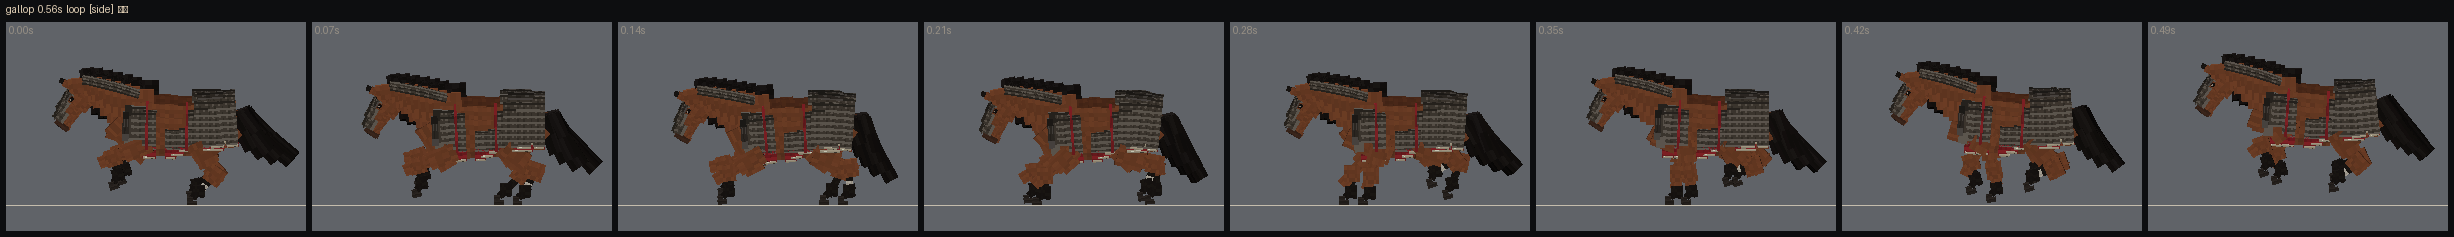
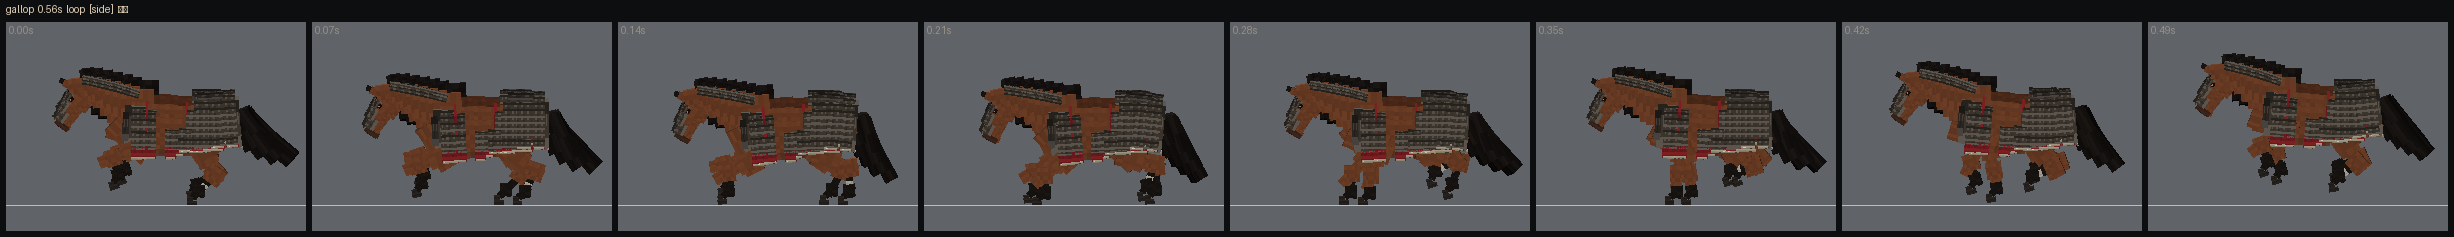
修甲的屁股：外侧面要罩得住大腿，搭后补上后襟
## 确实是穿模，而且五档三体型无一幸免

量出来的根子：**上肢比躯干还宽**。股（`thigh_*`）伸到 |x| 5.05、后腿上段
（`leg_upper_h_*`）到 5.29，而躯干最宽只有 4.51。甲的横向是照**躯干**量的
（`Torso.band`），外侧面给到 5.15 就没了——大腿直接从甲里长出来：

              粗布    锁子    轻铁    灵铁    重铁
    矮马      +0.30   +0.65   +0.58   +0.66   +1.67
    常马      +0.17   +0.64   +0.54   +0.62   +1.86
    挽马      +1.04   +1.46   +1.60   +1.52   +3.13   （单位 = 体素 = 6.25 cm）

**静止姿就穿模，而原有的判据一条都够不到它**：
  · `limb` 那档量的是"动起来比静止姿多陷多少"——静止姿本身有多糟它不问；
  · 贴合那条查的是甲有没有埋进**躯干**——大腿在不在甲外面它也不问。
两条各自都是对的，合起来正好把这个洞漏在中间。

修法与 `neck_outer_x` 是同一件事的两头：那条管**内侧面**（甲不许埋进颈，颈会动），
新的 `limb_outer_x` 管**外侧面**（甲要罩得住股）。甲鼓出去比切开好——真具装的侧片
本来就是罩在股外面垂下来的一大片。修完全部转负：甲比肢还往外 0.36-0.86 单位。

判据补上（`check_bard`）：上肢的任何一件都不许比甲更靠外。

## 顺带：那块光屁股

同一张图里更大的一片其实不是穿模，是**甲根本没做后襟**。侧片是贴在肋上的平板，
内侧面到 |x| 3.9 就没了；尻的后脸（`croup_cap`，半宽 4.4、高十个单位）整片没人管，
正后方看就是一大片光的。

补上：左右各一片兜下来、中间让给尾（尾根连尾毛在那一段伸到 |x| 3.2，中间那条本来
也被尾遮着），尾洞上沿再补一道。这件进 `BARD_KIT`，是顶档的第七件。

**覆盖率几乎没动（63.7% → 63.9%）——不是没多盖，是那条判据看不见它**：
`coverage` 只在每块皮的**左右两个侧面**取样，朝后的那一片它根本没在采。量程之外
的东西，判据说不上话；这一处只能靠图。

## 一个已知的不精确

甲鼓出去罩住股之后，"壳离皮多远"就不再只是 `gap + 板厚` 了。倒毙那条动画里蹭地
因此多了 0.4-0.6 单位（顶档 0.04 → 0.47 常马 / 0.62 矮马），仍在容许内（约用掉一半
预算），但那条容许的推导式（`extra.sink = 空隙 + 1.16 板厚`）已经不完全覆盖新的鼓出
量。**没有去松那个常数**——它现在过得去，松一个过得去的界比留着不精确更坏。

## 结果

- 42 份全绿（含动画期贴地 / 贴合 / 跨骨链）
- 12/12 条判据在被针对性破坏时撞红，基线零告警
- 蹄铁 / 鞍 / 缰 27 份几何仍逐字未变

Model: claude-opus-5[1m]

diff --git a/scripts/models/horse/gen_tack.py b/scripts/models/horse/gen_tack.py
@@ -1922,6 +1922,9 @@ class BardSpec:
     chamfron: str  # 面帘："" 无 / "half" 半面帘（护额与鼻梁，眼露在外）/ "full" 全罩留眼窗
     skirt: float  # 垂缘再往下加一截（× 躯干高）；0 = 无
     spine: bool  # 背脊梁
+    # 后襟：搭后往下兜住尻的**后面**（尾从中间穿出去）。侧片是贴在肋上的平板，只到
+    # |x| 3.9 就没了，尻的后脸整片露在外面——正后方看就是一大片光屁股。
+    rear: bool = False
     # 包边条的材质（"" = 不做）：沿甲的下摆走一道亮线。整板那一档原本每块板缘各一道
     # 棱，改回札甲之后不成立了——札片才两三个单位长，一片一道棱只剩一片杂色；**沿着
     # 整条边走一道**远处才连得成线。
@@ -1978,7 +1981,7 @@ BARDS: dict[str, BardSpec] = {
         mat="bard_lame", mat_dark="bard_lame_dark", mat_trim="bard_pad",
         edge="bard_rivet", pad="bard_pad", banded=False,
         th=0.024, hem=0.88, rows=8, cell=0.092, peytral=True, croup_plate=True,
-        crinet=True, chamfron="full", skirt=0.100, spine=True,
+        crinet=True, chamfron="full", skirt=0.100, spine=True, rear=True,
     ),
 }
 
@@ -1991,6 +1994,7 @@ BARD_KIT: tuple[tuple[str, object], ...] = (
     ("面帘", lambda s: bool(s.chamfron)),
     ("垂缘", lambda s: s.skirt > 0),
     ("脊梁", lambda s: s.spine),
+    ("后襟", lambda s: s.rear),
 )
 
 
@@ -2098,6 +2102,38 @@ def neck_outer_x(fit: Fit, za: float, zb: float, y0: float, y1: float) -> float:
     return best
 
 
+# 四肢**上段**：肩 / 上臂 / 股 / 后腿上段。往下（膝、管、系、蹄）不管——那儿早已在甲
+# 的下摆之外，真马铠也不护。
+LIMB_UPPER_RE = re.compile(r"thigh_[lr]|upper_arm_[lr]|leg_upper2?_[fh]_[lr]|leg_joint_[fh]_[lr]")
+
+
+def limb_outer_x(fit: Fit, za: float, zb: float, y0: float, y1: float) -> float:
+    """四肢上段在这一小块（z ∈ [za,zb]，y ∈ [y0,y1]）里横向伸到多远。
+    **甲片的外侧面不许比它更靠内。**
+
+    与 `neck_outer_x` 是同一件事的另一头：那条管内侧面（甲不许埋进颈），这条管外侧面。
+
+    甲的横向是照**躯干**量的（`Torso.band`），可上肢比躯干还宽——股伸到 |x| 5.05、
+    后腿上段 5.29，而躯干最宽只有 4.51。照躯干给外侧面，大腿就直接从甲里长出来：
+    挽马重铁甲实测露 3.13 单位，常马 1.86，五档三体型**无一幸免**（最小的粗布甲也露
+    0.17）。这不是动画里蹭一下，是**静止姿就穿模**，而原有的判据一条都够不到它——
+    `limb` 那档量的是"动起来比静止姿多陷多少"，静止姿本身有多糟它不问；贴合那条查的
+    是甲有没有埋进**躯干**，大腿在不在甲外面它也不问。
+
+    甲鼓出去比切开好：真具装的侧片本来就是**罩在**股外面垂下来的一大片。
+    """
+    best = 0.0
+    for e in fit.pelt_els:
+        if not LIMB_UPPER_RE.fullmatch(e["name"]):
+            continue
+        c = np.array(_corners(e), float)
+        if (c[:, 2].max() < min(za, zb) or c[:, 2].min() > max(za, zb)
+                or c[:, 1].max() < y0 or c[:, 1].min() > y1):
+            continue
+        best = max(best, float(np.abs(c[:, 0]).max()))
+    return best
+
+
 def _cells(fit: Fit, segs, lap: float, cell_len: float) -> list[tuple[str, float, float]]:
     """骨段 → 更细的格。同骨内切格是为了**跟着桶身前后收**：一整块平板从肩铺到腰，
     两头必然翘起来离开马体。同骨的格之间留一个板厚的搭叠（不是严格对接）——严格
@@ -2180,6 +2216,9 @@ def _lame_row(t: Tack, fit: Fit, spec: BardSpec, *, tag: str, row: str, za: floa
         # 相同），相切时交体积恰好是 0，"甲贴在马身上"那条判据分不出相切与飘着。
         lo, hi = shell(a0, a1)
         lo = max(lo, neck_outer_x(fit, c0, c1, a0, a1) + gap)
+        # 外侧面要罩得住上肢：股与后腿上段比躯干还宽，照躯干给这一片就成了"大腿从甲里
+        # 长出来"（见 `limb_outer_x`）。
+        hi = max(hi, limb_outer_x(fit, c0, c1, a0, a1) + gap + th)
         # 逐格错开一线厚度：一排里相邻两片是搭着的，同宽同高时外侧面共面会闪。
         # 只要**打破共面**就够，给多了就是首版那种一格凸一格凹的锯齿（首版 0.16 个
         # 板厚、板厚又是现在的两倍，肋上肉眼可见地一格一格起伏）。
@@ -2379,6 +2418,34 @@ def part_bard_body(t: Tack, fit: Fit, spec: BardSpec) -> None:
                 t.box(bone, f"bard_croup_{i + 1}_{k + 1}{side and '_' + side}",
                       (sgn * (x0 if k else -x1), by0, c0), (sgn * x1, ytk, c1),
                       mat=spec.mat, chain=(f"bard_croup{k}{side}", i))
+    if spec.rear:
+        # 后襟：兜住尻的**后面**，尾从中间穿出去。
+        #
+        # 侧片是贴在肋上的平板，内侧面到 |x| 3.9 就没了；尻的后脸（croup_cap 那一块，
+        # 半宽 4.4、高十个单位）整片没人管——正后方看就是一大片光屁股，甲只在两侧
+        # 各挂了一条。真具装的搭后本来就是**一片兜下来**的，尾从留的洞里出来。
+        # 左右各一片、中间让给尾：尾根连尾毛在这一段伸到 |x| 3.2，中间那一条本来也
+        # 被尾遮着，做了也看不见，反倒要跟尾毛打架。
+        zr0, zr1 = T.z1 - th * 1.6, T.z1 + gap + th
+        tail = [e for e in fit.pelt_els if e["name"].startswith(("dock_", "tailhair_"))]
+        x_in = max((float(np.abs(np.array(_corners(e), float)[:, 0]).max()) for e in tail
+                    if np.array(_corners(e), float)[:, 2].max() > zr0), default=0.0) + gap
+        yr0 = max(T.at(T.z1 - th)[2], y_lo)
+        x_out = max(T.band(T.z1 - th, yr0, by0)[1],
+                    limb_outer_x(fit, zr0, zr1, yr0, by0)) + gap + th
+        if x_out - x_in > th * 2:
+            for sgn, side in ((-1.0, "l"), (1.0, "r")):
+                t.box("hips", f"bard_croup_rear_{side}", (sgn * x_in, yr0, zr0),
+                      (sgn * x_out, by0 + th, zr1), mat=spec.mat)
+                t.box("hips", f"bard_croup_rear_edge_{side}",
+                      (sgn * x_in, yr0 - th * 0.15, zr1 - th * 0.5),
+                      (sgn * x_out, yr0 + th * 0.75, zr1 + th * 0.22),
+                      mat=spec.edge or spec.mat_dark)
+            # 尾洞的上沿：尾根顶到搭后下缘之间还剩一条，正后方看是尾巴上头一条光的。
+            # 尾从洞里出来，洞的上边总得有个边——真物那儿正是搭后包过来的那一道。
+            if by0 + th - (y_tail + gap) > th:
+                t.box("hips", "bard_croup_rear_top", (-x_in - th * 0.5, y_tail + gap, zr0),
+                      (x_in + th * 0.5, by0 + th, zr1), mat=spec.mat)
     if spec.croup_plate:
         t.box("hips", "bard_croup_plate", (-(hw_b * 0.86), ytb - th * 0.5, _lerpf(bz0, T.z1, 0.16)),
               (hw_b * 0.86, ytb + th * 1.9, _lerpf(bz0, T.z1, 0.74)), mat=spec.mat_dark)
@@ -2750,6 +2817,28 @@ def check_bard(t: Tack, fit: Fit, spec: BardSpec) -> list[str]:
             continue
         if sum(_overlap_vol(e, pe) for pe in torso_els) < MIN_BITE:
             bad.append(f"{e['name']} 没贴在马身上（与躯干皮无实交）——会看着浮在体外")
+    # --- 大腿不许从甲里长出来 ---
+    # 静止姿就穿模，而**原有的判据一条都够不到它**：`limb` 那档量的是"动起来比静止姿
+    # 多陷多少"，静止姿本身有多糟它不问；上面那条实交查的是甲有没有埋进**躯干**，
+    # 大腿在不在甲外面它也不问。于是五档三体型全在漏（挽马重铁甲露 3.13 单位），
+    # 图上就是"屁股那儿穿模"。
+    limbs = [e for e in fit.pelt_els if LIMB_UPPER_RE.fullmatch(e["name"])]
+    out = []
+    for a in lames:
+        ca = np.array(_corners(a), float)
+        ax = float(np.abs(ca[:, 0]).max())
+        for b in limbs:
+            cb = np.array(_corners(b), float)
+            if (cb[:, 1].max() < ca[:, 1].min() or cb[:, 1].min() > ca[:, 1].max()
+                    or cb[:, 2].max() < ca[:, 2].min() or cb[:, 2].min() > ca[:, 2].max()):
+                continue
+            d = float(np.abs(cb[:, 0]).max()) - ax
+            if d > CROSS_TOL:
+                out.append((d, b["name"], a["name"]))
+    if out:
+        d, bn, an = max(out)
+        bad.append(f"{bn} 比甲还往外 {d:.2f} 单位（{an}，共 {len(out)} 处）——大腿从甲里长出来")
+
     body = [e for e in els if not e["name"].startswith("bard_crinet")]
     show = max(max(float(_aabb(e)[1][0]), -float(_aabb(e)[0][0])) for e in body)
     hw_max = max(max(t2[0], -f[0]) for f, t2 in T.boxes)
